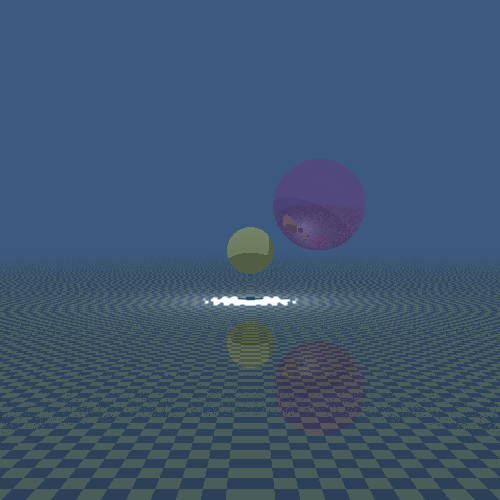
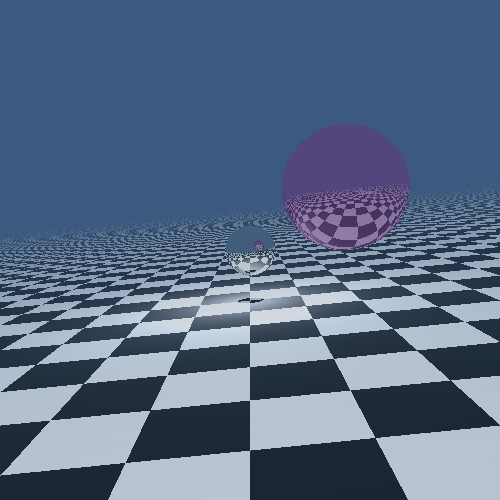
FIX : ambientlight compilation

diff --git a/src/plugins/Vanille/Materials/Check.material.v.cpp b/src/plugins/Vanille/Materials/Check.material.v.cpp
@@ -12,22 +12,35 @@ namespace vanille
 {
     CheckMaterial_v::CheckMaterial_v() : render::IMaterial()
     {
-        _color1 = sf::Color::White;
-        _color2 = sf::Color::Black;
+        _colors.push_back(sf::Color::White);
+        _colors.push_back(sf::Color::Black);
+
+        _pattern.push_back(_colors);
+        std::reverse(_colors.begin(), _colors.end());
+        _pattern.push_back(_colors);
+
+        _scale = 0.1;
     }
+
     void CheckMaterial_v::getColor(int &r, int &g, int &b,
         __attribute__((unused)) geo::vec3 point) const
     {
-        if ((int)point.x % 2 == 0 ^ (int)point.y % 2 == 0 ^ (int)point.z % 2 == 0) {
-            r = _color1.r;
-            g = _color1.g;
-            b = _color1.b;
-        } else {
-            r = _color2.r;
-            g = _color2.g;
-            b = _color2.b;
-        }
+        float scaledX = point.x * _scale;
+        float scaledY = point.z * _scale;
+        if (scaledX < 0)
+            scaledX -= 1;
+        if (scaledY < 0)
+            scaledY -= 1;
+        size_t patternWidth = _pattern[0].size();
+        size_t patternHeight = _pattern.size();
+        size_t indexX = (size_t)scaledX % patternWidth;
+        size_t indexY = (size_t)scaledY % patternHeight;
+        sf::Color color = _pattern[indexY][indexX];
+        r = (int)color.r;
+        g = (int)color.g;
+        b = (int)color.b;
     }
+
     float CheckMaterial_v::getProperty(const std::string &name) const
     {
         try {
@@ -41,35 +54,18 @@ namespace vanille
 
     void CheckMaterial_v::selfInit(libconfig::Setting &setting, render::Entity *parent)
     {
-        _parent = parent;
-        if (setting.exists("color1")) {
-            libconfig::Setting &color = setting["color1"];
-            int r = color["r"];
-            int g = color["g"];
-            int b = color["b"];
-            _color1 = sf::Color(r, g, b);
-        } else {
-            std::cout << render::yellow << "[WARNING] " << render::no_color
-                << "No color found in material" << std::endl;
-        }
-        if (setting.exists("color2")) {
-            libconfig::Setting &color = setting["color2"];
-            int r = color["r"];
-            int g = color["g"];
-            int b = color["b"];
-            _color2 = sf::Color(r, g, b);
-        } else {
-            std::cout << render::yellow << "[WARNING] " << render::no_color
-                << "No color found in material" << std::endl;
-        }
-        libconfig::Setting &properties = setting.lookup("properties");
-        for (int i = 0; i < properties.getLength(); i++) {
-            libconfig::Setting &property = properties[i];
-            std::string name = property.getName();
-            float value = 10;
-            properties.lookupValue(name, value);
-            _properties[name] = value;
-        }
+        // _colors = {};
+        // _pattern = {};
+        // _parent = parent;
+        // libconfig::Setting &colors = setting.lookup("colors");
+        // for (int i = 0; i < 3; i++) {
+        //     auto &color = colors[i];
+        //     sf::Color c;
+        //     color.lookupValue("r", c.r);
+        //     color.lookupValue("g", c.g);
+        //     color.lookupValue("b", c.b);
+
+        // }
     }
 } // namespace v
 

diff --git a/src/plugins/Vanille/Materials/Check.material.v.hpp b/src/plugins/Vanille/Materials/Check.material.v.hpp
@@ -24,8 +24,9 @@ namespace vanille {
                 {"reflectivity", 0},
                 {"shininess", 0},
             };
-            sf::Color _color1;
-            sf::Color _color2;
             render::Entity *_parent;
+            std::vector<sf::Color> _colors;
+            std::vector<std::vector<sf::Color>> _pattern;
+            float _scale;
     };
 }

diff --git a/src/plugins/Vanille/Processes/AmbientLight.process.v.cpp b/src/plugins/Vanille/Processes/AmbientLight.process.v.cpp
@@ -2,14 +2,14 @@
 ** EPITECH PROJECT, 2022
 ** ray
 ** File description:
-** AmbientLight.v.cpp
+** AmbientLight.process.v.cpp
 */
 
 #include <libconfig.h++>
 #include "Camera.hpp"
 #include "Ray.hpp"
 #include "Renderer.hpp"
-#include "AmbientLight.v.hpp"
+#include "AmbientLight.process.v.hpp"
 
 namespace render {
     AmbientLight_v::AmbientLight_v() :

diff --git a/src/plugins/Vanille/Processes/AmbientLight.process.v.hpp b/src/plugins/Vanille/Processes/AmbientLight.process.v.hpp
@@ -2,7 +2,7 @@
 ** EPITECH PROJECT, 2022
 ** ray
 ** File description:
-** AmbientLight.v.hpp
+** AmbientLight.process.v.hpp
 */
 
 #ifndef E3F48462_7625_411F_9381_50161120187F
